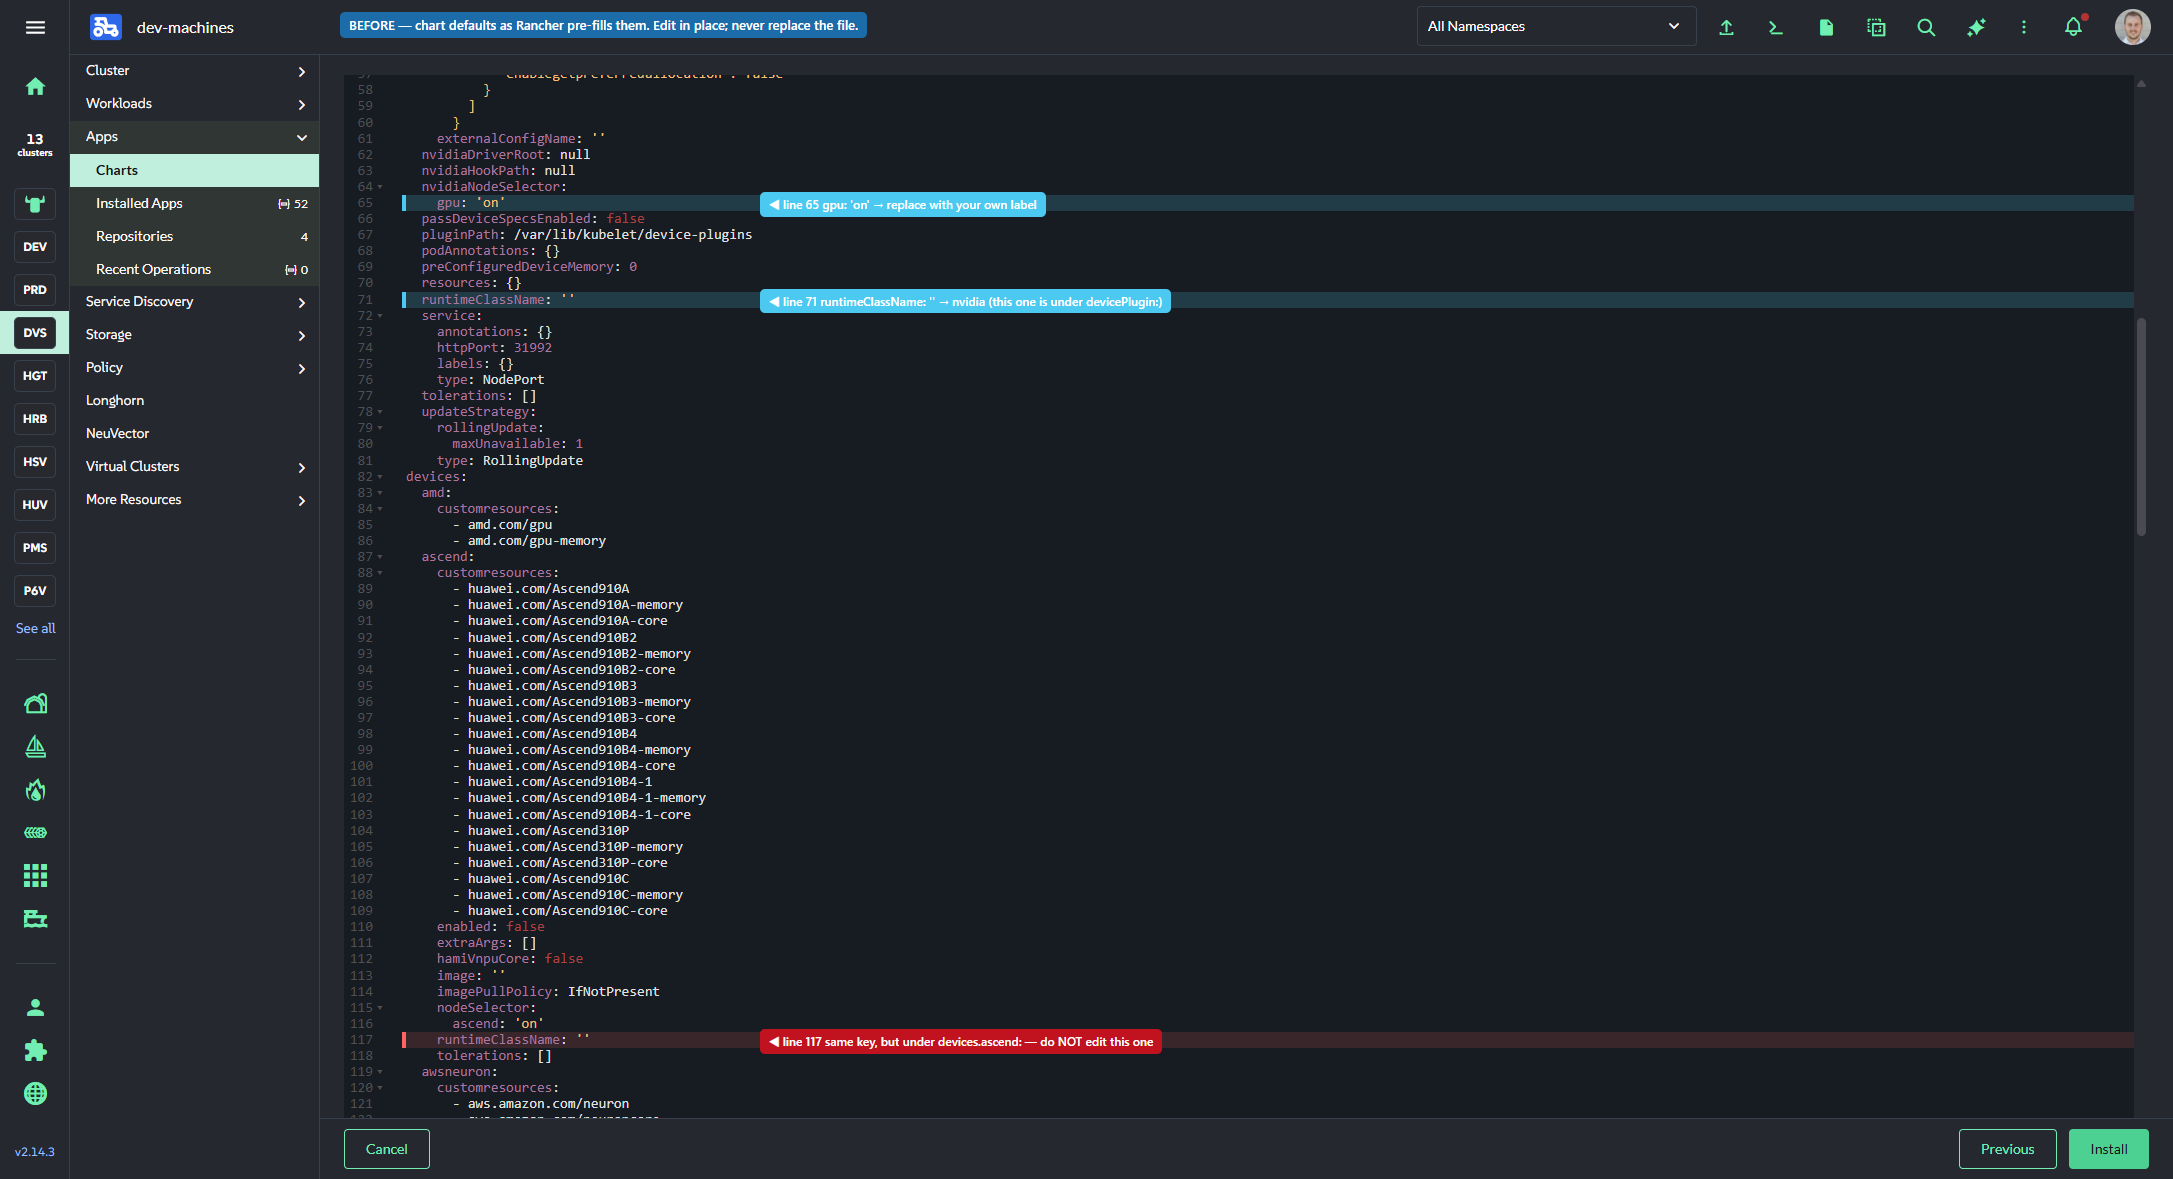
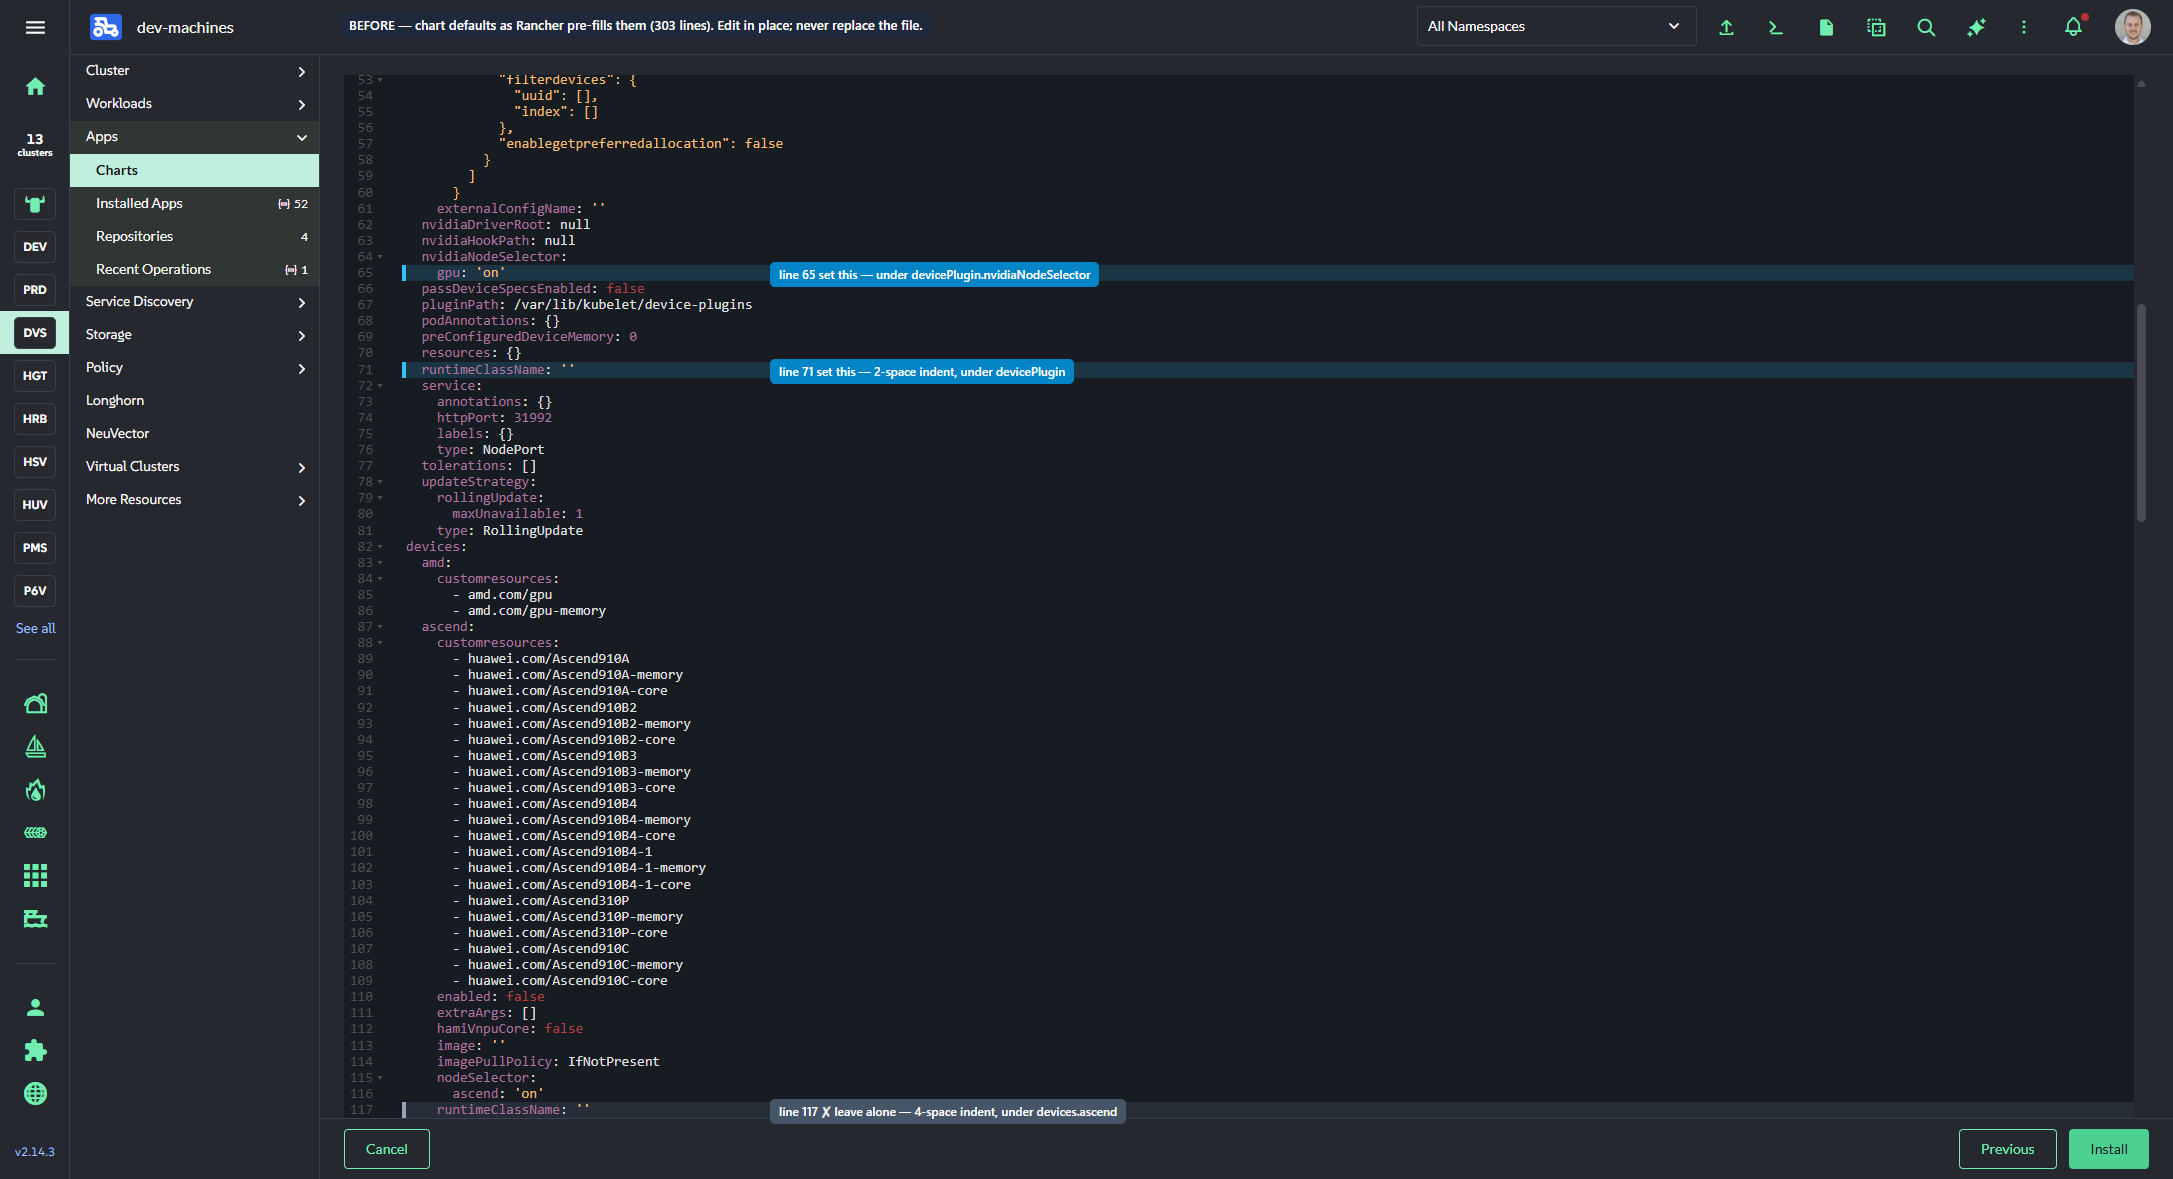
one meaning per screenshot colour, trim chart caption

Changed region(s): [[0.1542, 0.0611, 0.9867, 0.9771], [0.1542, 0.0, 0.4317, 0.0305]]

diff --git a/scenarios/deploy-from-rancher-apps/README.md b/scenarios/deploy-from-rancher-apps/README.md
@@ -10,7 +10,14 @@ Walked end to end on Rancher **v2.14.3** against an RKE2 cluster; screenshots in
 
 *Apps* → *Repositories* → *Create*.
 
-In the screenshots throughout this page, a **red ring and cursor** mark the thing to click next, **blue** marks a field or line to set, and **amber** marks a line that has just been changed.
+Screenshot conventions — one colour, one meaning:
+
+| | |
+| --- | --- |
+| **Magenta ring + cursor** | the control to click next |
+| **Blue** | a field or line you are about to set |
+| **Amber** | that line after you changed it |
+| **Grey ✗** | a look-alike key — leave it alone |
 
 ![Repositories list](images/01-repositories.png)
 
